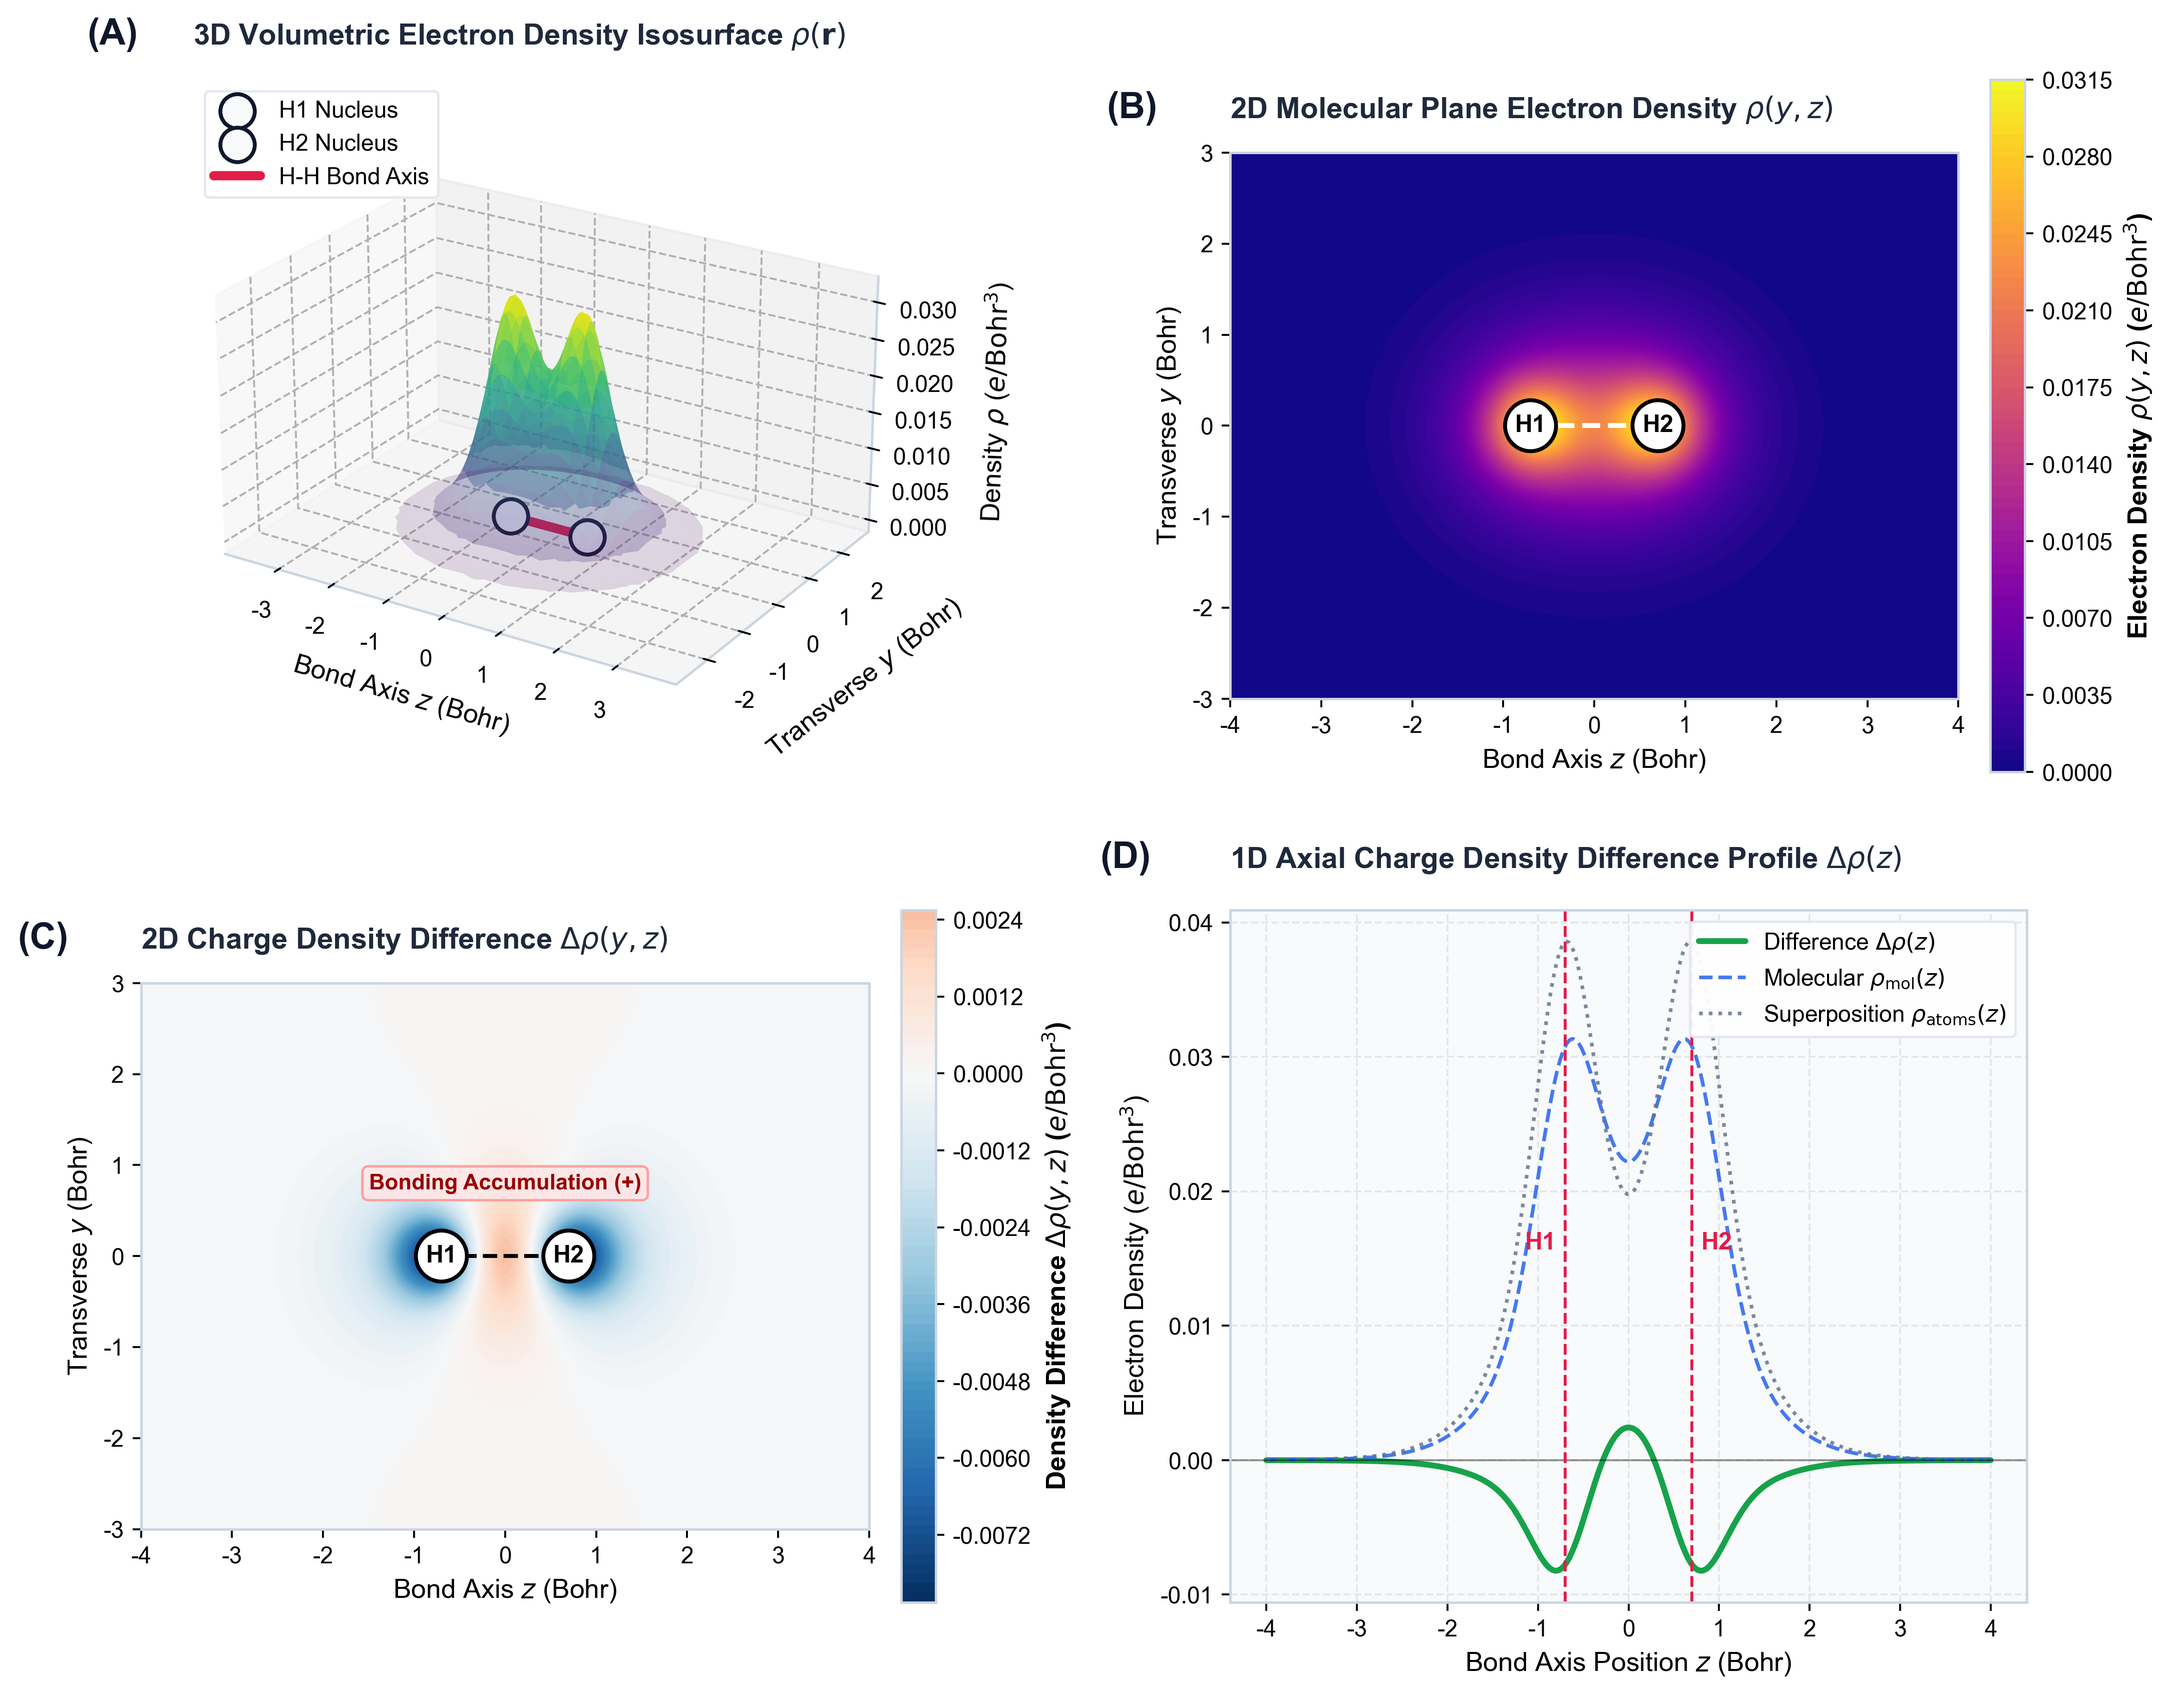
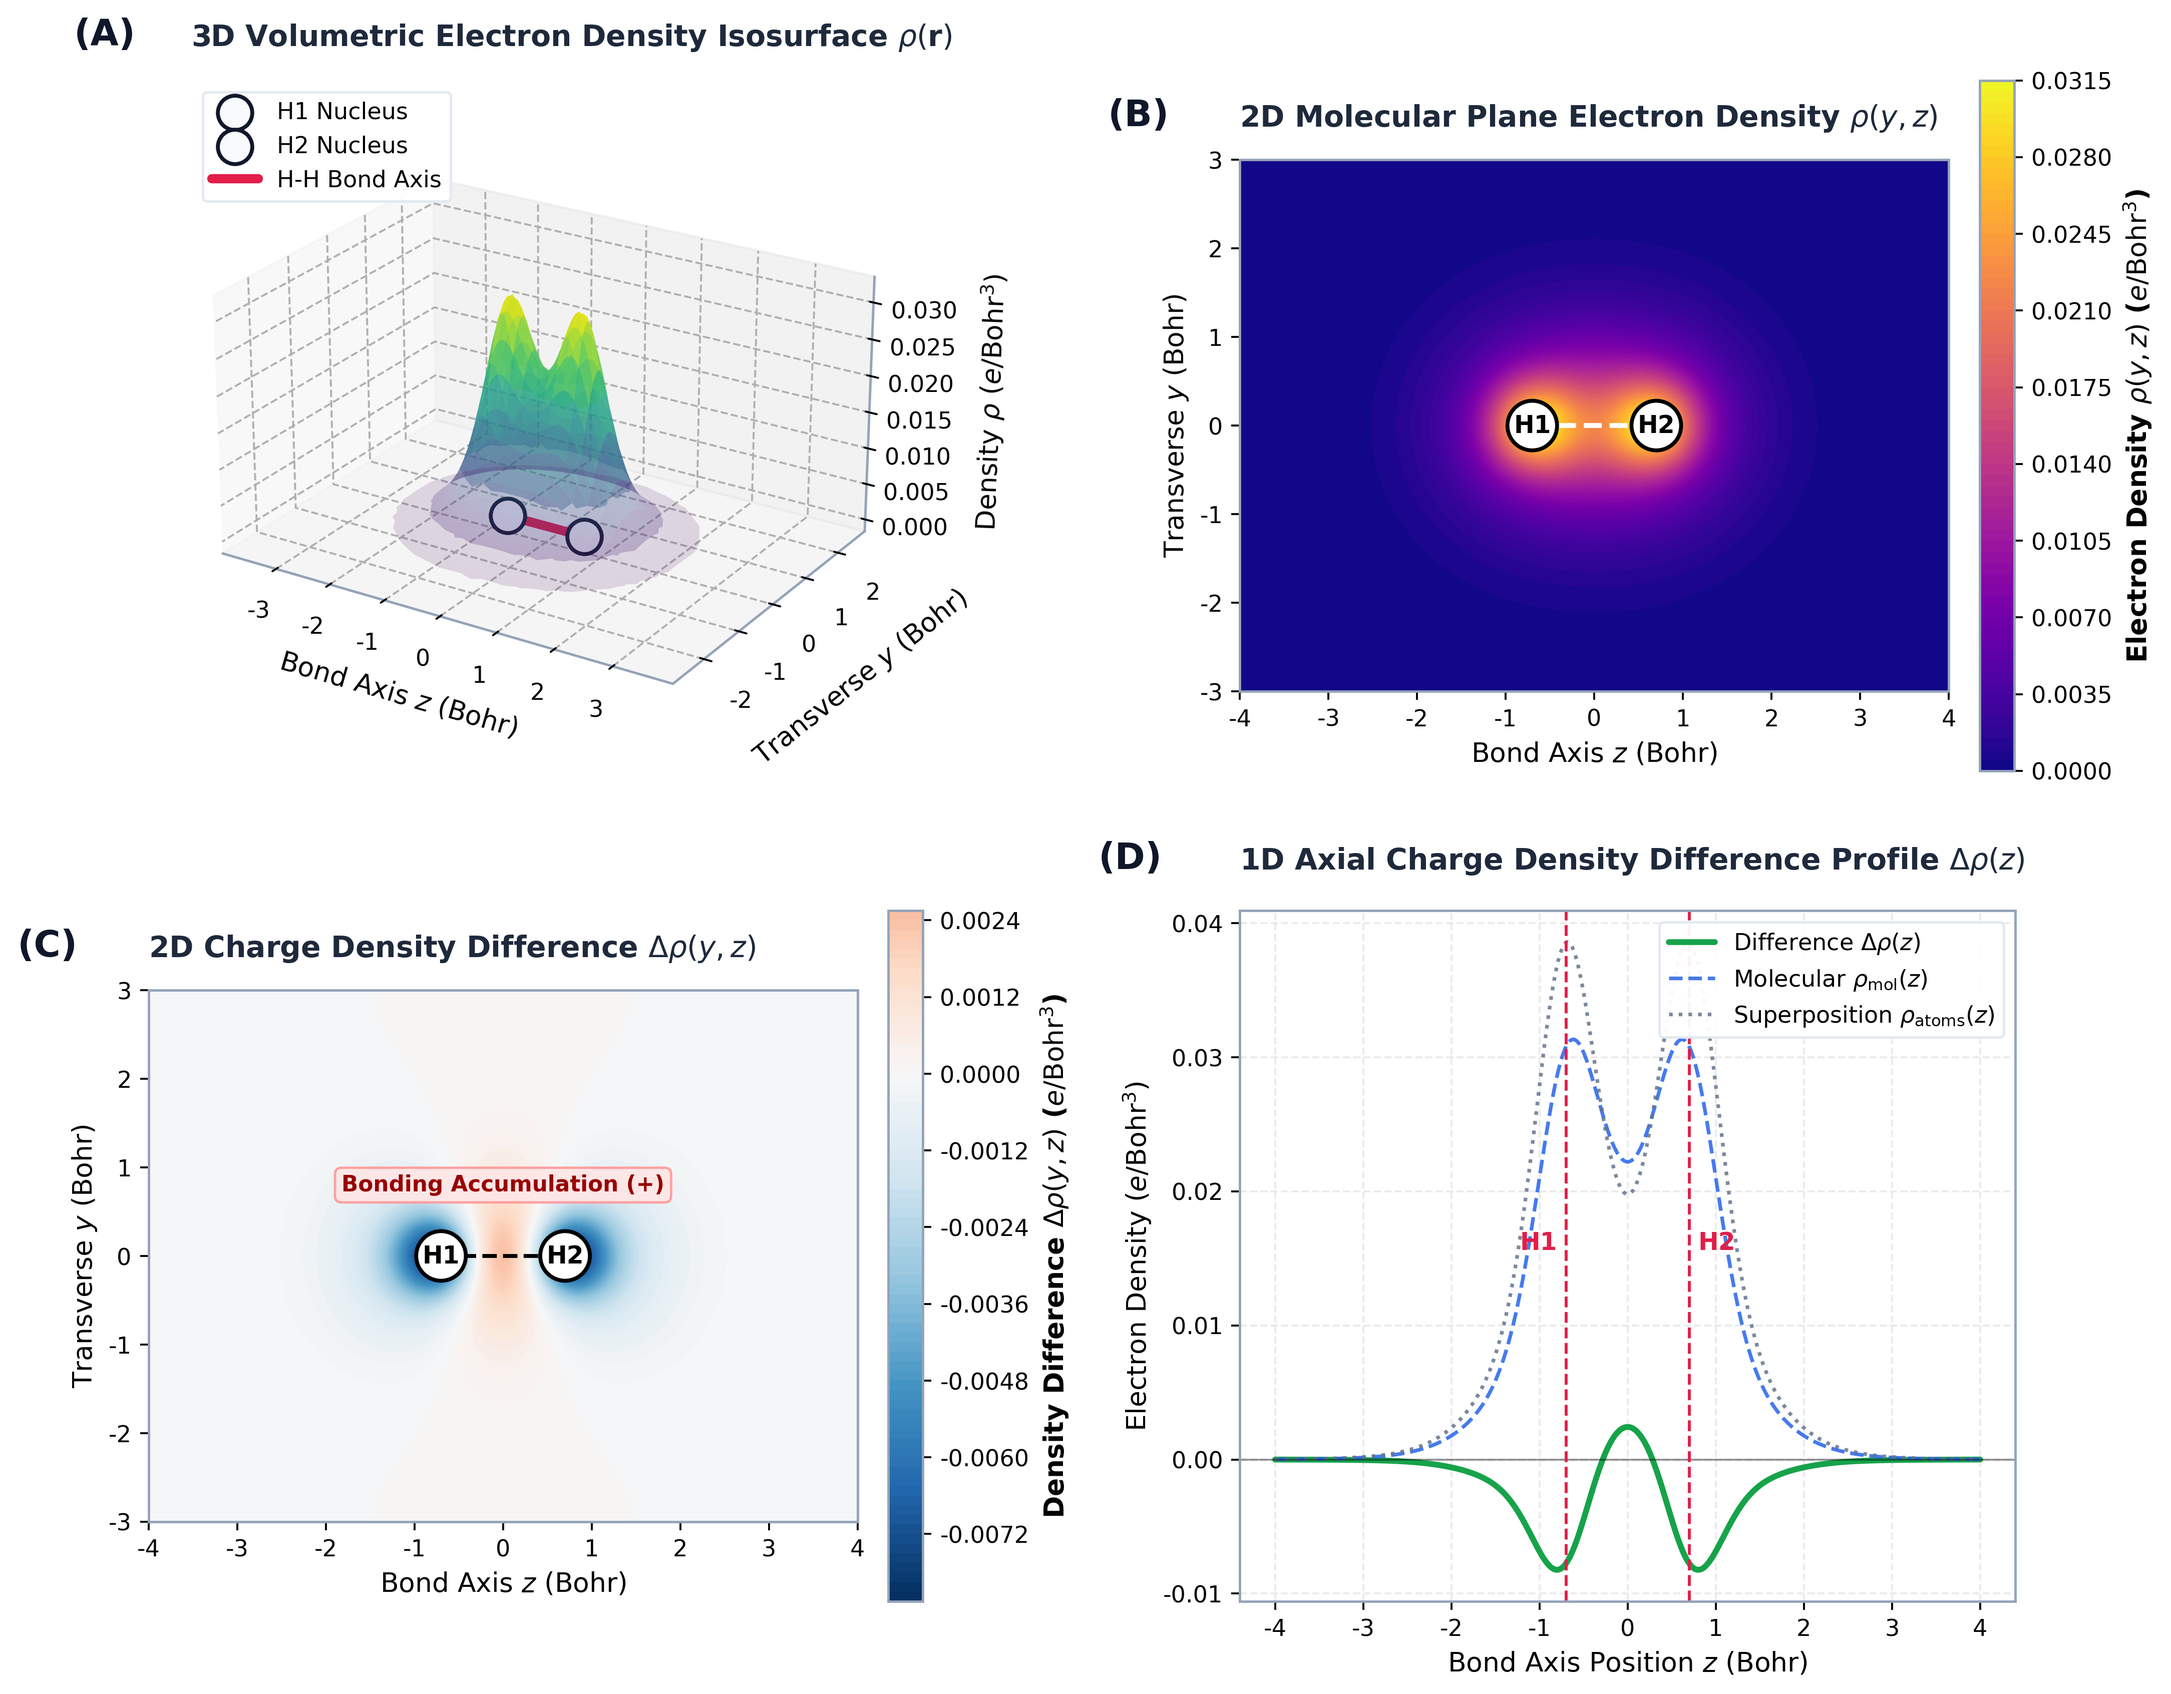
fix: resolve font rendering fallback to eliminate garbled glyphs and refine CSS typography

diff --git a/run_and_plot.py b/run_and_plot.py
@@ -16,7 +16,8 @@ from analysis_tools import (
 # -----------------------------------------------------------------------------
 plt.rcParams.update({
     'font.family': 'sans-serif',
-    'font.sans-serif': ['Arial', 'Helvetica', 'SimHei', 'Microsoft YaHei', 'DejaVu Sans'],
+    'font.sans-serif': ['DejaVu Sans', 'Arial', 'Helvetica', 'Microsoft YaHei', 'SimHei'],
+    'mathtext.fontset': 'dejavusans',
     'axes.unicode_minus': False,
     'font.size': 10,
     'axes.labelsize': 11,
@@ -27,9 +28,9 @@ plt.rcParams.update({
     'figure.titlesize': 15,
     'grid.linestyle': '--',
     'grid.alpha': 0.22,
-    'axes.facecolor': '#f8fafc',
+    'axes.facecolor': '#ffffff',
     'figure.facecolor': '#ffffff',
-    'axes.edgecolor': '#cbd5e1',
+    'axes.edgecolor': '#94a3b8',
     'axes.linewidth': 1.0,
     'lines.solid_capstyle': 'round',
     'savefig.dpi': 350,
@@ -512,7 +513,7 @@ def generate_nature_fig4():
     ax_a.plot(distances, e_tot_list, linestyle='-', marker='o', color=THEME['primary'],
               linewidth=2.2, markersize=4.5, markerfacecolor='white', label=r'RHF Total Energy $E_{\mathrm{tot}}$')
     ax_a.axvline(x=r_eq, color=THEME['rose'], linestyle='--', alpha=0.85, linewidth=1.4,
-                 label=fr'Equilibrium Bond $R_e \approx {r_eq:.2f}\mathrm{{ Bohr}}$ ({r_eq*0.529177:.2f} Å)')
+                 label=fr'Equilibrium Bond $R_e \approx {r_eq:.2f}\mathrm{{ Bohr}}$ ({r_eq*0.529177:.2f} $\mathrm{{\AA}}$)')
     ax_a.scatter([r_eq], [e_min], color=THEME['rose'], s=80, zorder=5)
     
     ax_a.set_xlabel(r'Internuclear Distance $R$ (Bohr)')

diff --git a/app.py b/app.py
@@ -25,7 +25,7 @@ st.markdown("""
     .stApp {
         background-color: #f8fafc;
         color: #1e293b;
-        font-family: 'Times New Roman', 'SimSun', 'SimHei', -apple-system, sans-serif;
+        font-family: -apple-system, BlinkMacSystemFont, "Segoe UI", Roboto, "Helvetica Neue", Arial, "Microsoft YaHei", sans-serif;
     }
     
     /* 标题样式 */
